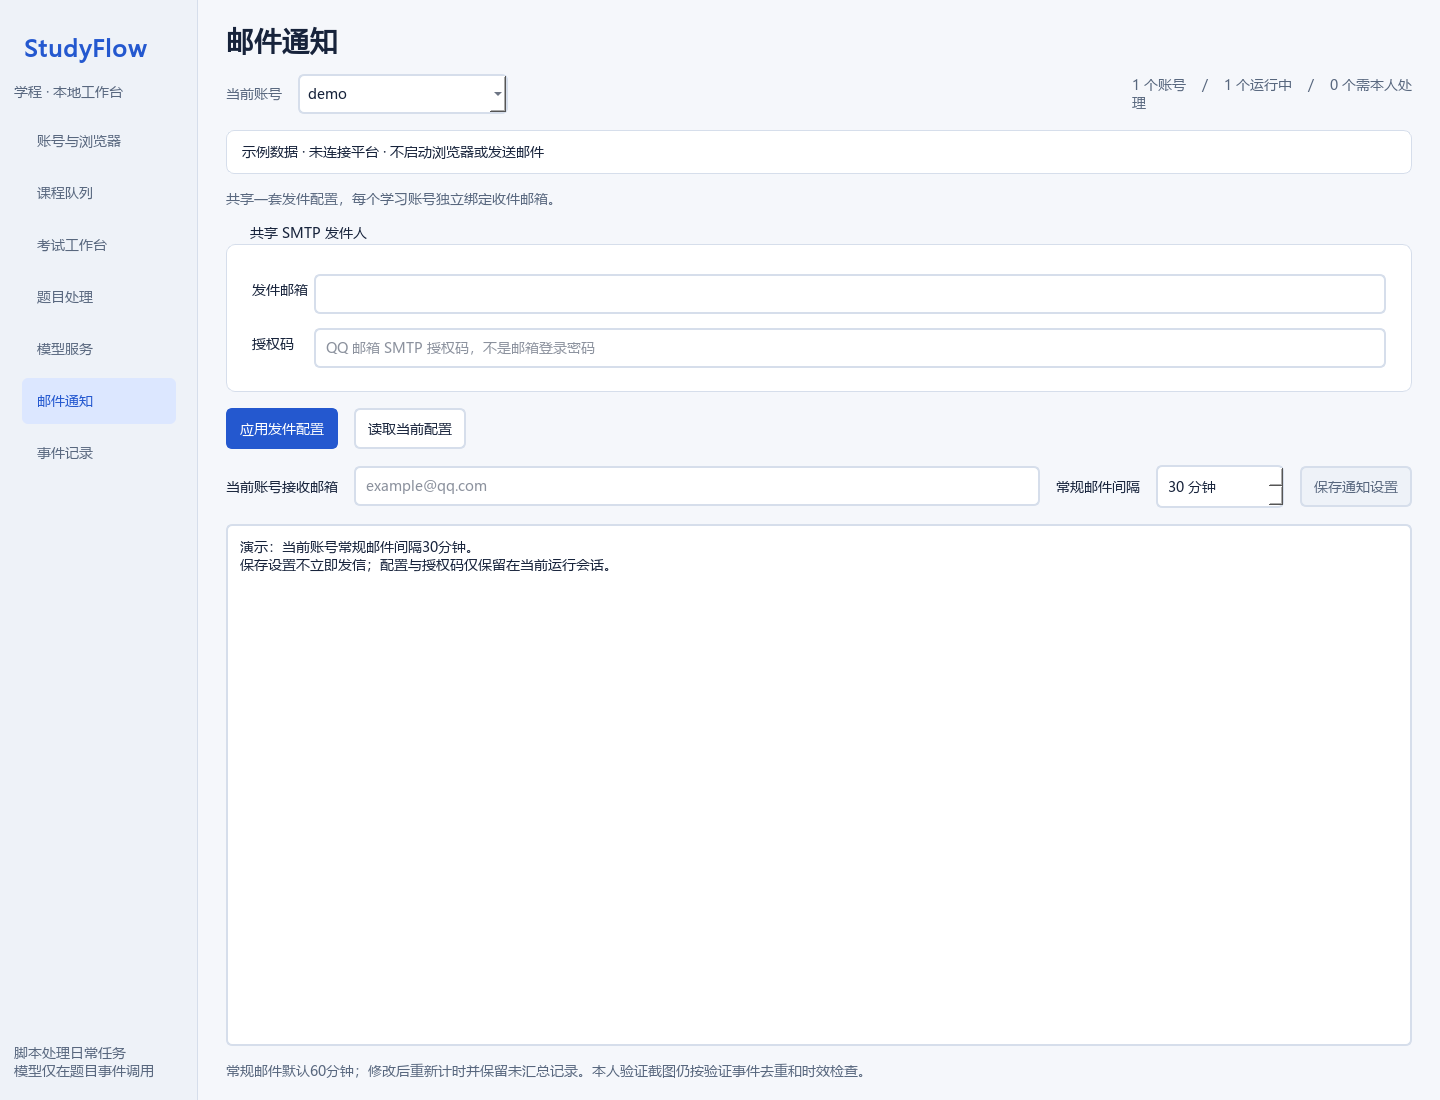
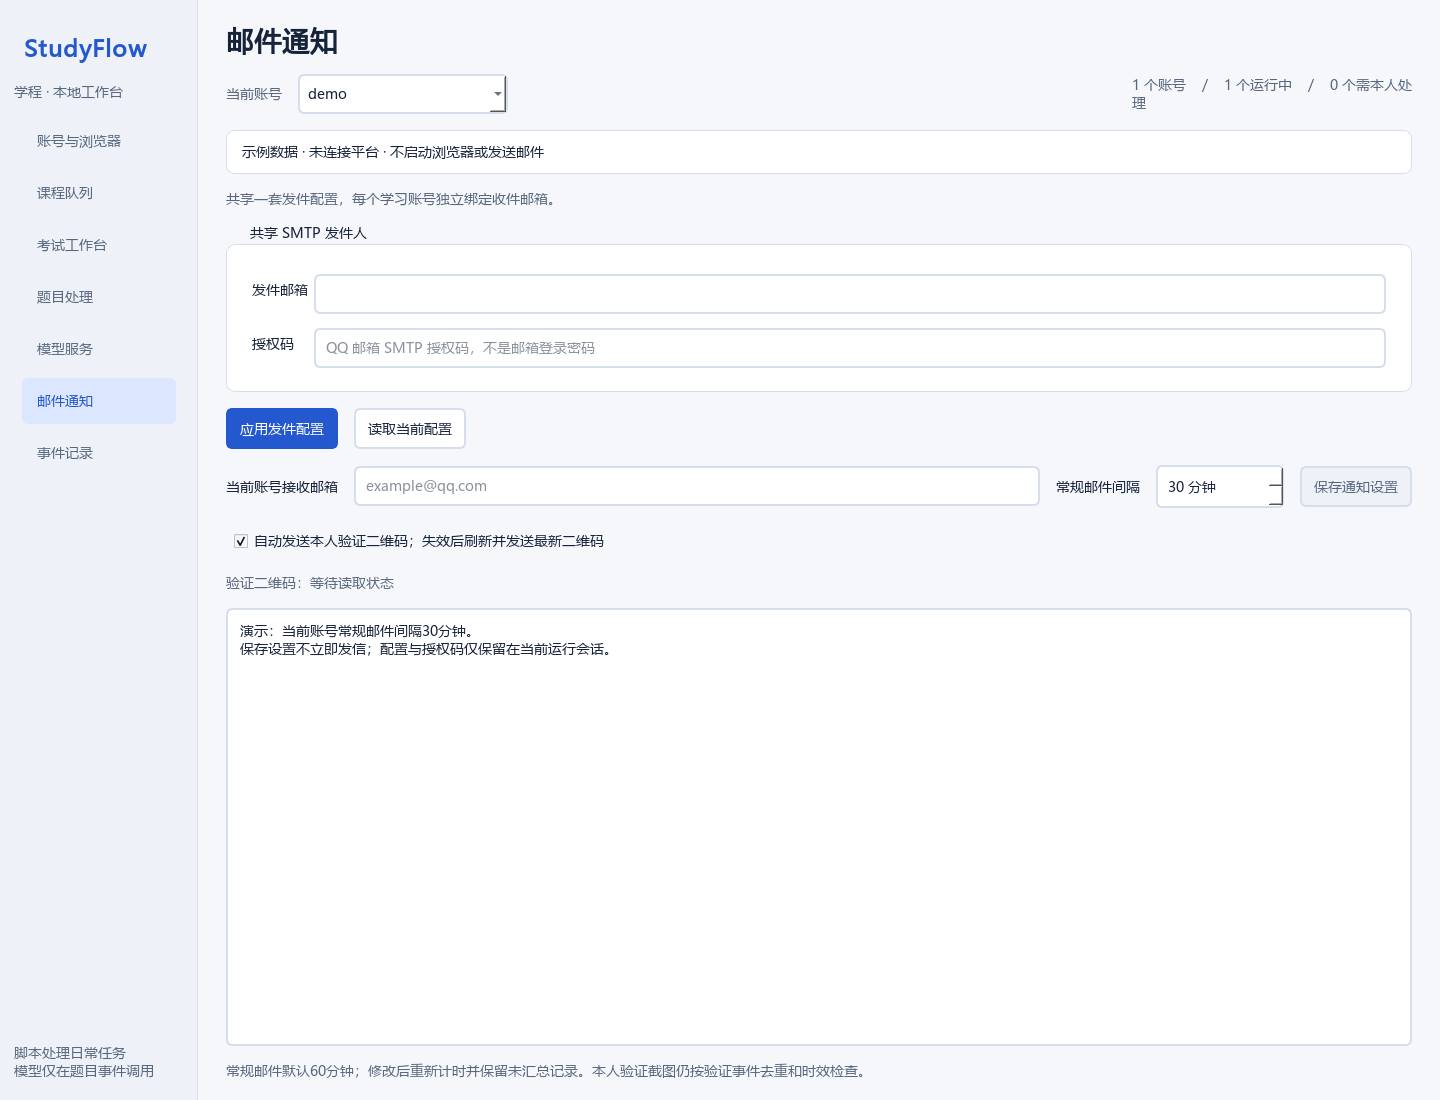
feat: release single-file desktop with QR notification controls
Expose automatic QR refresh/email settings and live delivery status. Add one-file Windows build with embedded backend, resources and licenses. Update tutorial and synthetic screenshots. Validation: 429 backend and 64 desktop tests passed; standalone EXE GUI startup and 134-tool MCP handshake passed without external Python, Node or Qt paths.

Changed region(s): [[0.1562, 0.4636, 0.4375, 0.6182]]

diff --git a/src/chaoxing_learning_mcp/smtp_notifications.py b/src/chaoxing_learning_mcp/smtp_notifications.py
@@ -27,6 +27,7 @@ _playback_jobs = queue.Queue(maxsize=32)
 _playback_worker = None
 _mail_history = globals().get('_mail_history',{})
 _notification_intervals=globals().get('_notification_intervals',{})
+_auto_qr=globals().get('_auto_qr',{})
 _notification_timers=globals().get('_notification_timers',{})
 _EMAIL = re.compile(r'[^\s@<>]+@[^\s@<>]+\.[^\s@<>]+')
 
@@ -64,16 +65,18 @@ def _arm_interval_timer(account_id):
     _notification_timers[account_id]=timer;timer.start()
 
 
-def configure_notification_interval(account_id:str,minutes:int=60):
+def configure_notification_interval(account_id:str,minutes:int=60,auto_refresh_qr:bool=True):
     from .course_tasks import _accounts
     from . import hourly_reports
     if account_id not in _accounts:raise ValueError('Unknown learning account')
     if isinstance(minutes,bool) or not isinstance(minutes,int) or not 1<=minutes<=1440:
         raise ValueError('Notification interval must be 1..1440 minutes')
-    with _lock:_notification_intervals[account_id]=minutes*60
+    with _lock:
+        _notification_intervals[account_id]=minutes*60
+        _auto_qr[account_id]=bool(auto_refresh_qr)
     hourly_reports.reporter.set_interval(account_id,minutes*60);hourly_reports._wake.set()
     _arm_interval_timer(account_id)
-    return {'configured':True,'account_id':account_id,'notification_interval_minutes':minutes,'mail_sent':False}
+    return {'configured':True,'account_id':account_id,'notification_interval_minutes':minutes,'auto_refresh_qr':bool(auto_refresh_qr),'mail_sent':False}
 
 
 def configure_smtp_sender(sender_email: str = '', smtp_auth_code: str = '', enabled: bool = True) -> dict[str, Any]:
@@ -138,7 +141,7 @@ def smtp_notification_status(account_id: str) -> dict[str, Any]:
         return {'account_id':account_id,'enabled':bool(cfg),
                 'sender':cfg['sender'] if cfg else None,'recipient':cfg['recipient'] if cfg else _recipients.get(account_id),
                 'waiting_for_shared_sender':account_id in _recipients and not cfg,
-                'verification_active':e.get('active',False),'notice_status':e.get('status','idle'),
+                'auto_refresh_qr':_auto_qr.get(account_id,True),'verification_active':e.get('active',False),'notice_status':e.get('status','idle'),
                 'sent_count':e.get('sent_count',0),'error_type':e.get('error_type'),
                 'qr_status':e.get('qr_status'),'refresh_pending':e.get('refresh_pending',False),
                 'refresh_count':e.get('refresh_count',0),'playback_health':health,
@@ -354,7 +357,7 @@ def observe_gate(page, frame, account_id, kind):
     No QR URL requests, token decoding, verification submission, or face bypass.
     """
     with _lock:
-        if not _resolved_config(account_id):return
+        if not _resolved_config(account_id) or not _auto_qr.get(account_id,True):return
         # A fresh visible gate after a completed episode has a new QR identity.
         # Never compare it with the previous episode's verified refresh hash.
         previous=_events.get(account_id)

diff --git a/desktop/app.py b/desktop/app.py
@@ -258,6 +258,7 @@ class Window(QMainWindow):
             self.update_actions()
         elif key.startswith('通知记录 '):
             aid=key.split(' ',1)[1]
+            if aid==self.selected():self.qr_status.setText('验证二维码：'+str(data.get('qr_status') or '当前无需验证')+' · 邮件：'+str(data.get('notice_status') or '等待'))
             for mail in data.get('mail_history',[]):
                 identity=(aid,mail.get('id'))
                 if identity not in self.mail_seen and mail.get('status')!='sending':
@@ -390,6 +391,8 @@ class Window(QMainWindow):
                 if state['account_id']==self.selected():
                     self.recipient.setText(state.get('recipient') or '')
                     self.mail_interval.setValue(state.get('notification_interval_minutes',60))
+                    self.auto_qr.setChecked(state.get('auto_refresh_qr',True))
+                    self.qr_status.setText('验证二维码：'+str(state.get('qr_status') or '当前无需验证')+' · 邮件：'+str(state.get('notice_status') or '等待')+' · 收件人：'+str(state.get('recipient') or '未配置'))
             self.mail_info.setPlainText('\n'.join(lines))
         else:
             self.last_errors.pop(key,None)
@@ -704,10 +707,10 @@ class Window(QMainWindow):
         self.task('邮件配置',lambda:self.adapter.call('configure_smtp_sender',{'sender_email':email,'smtp_auth_code':secret}))
     def bind_mail(self):
         a=self.selected();recipient=self.recipient.text().strip()
-        minutes=self.mail_interval.value()
+        minutes=self.mail_interval.value();auto_qr=self.auto_qr.isChecked()
         def save():
             if recipient:self.adapter.route(a,'bind_account_notification_email',recipient_email=recipient)
-            return self.adapter.route(a,'configure_notification_interval',minutes=minutes)
+            return self.adapter.route(a,'configure_notification_interval',minutes=minutes,auto_refresh_qr=auto_qr)
         if a:self.task('通知设置:'+a,save)
     def add_account(self):
         if not self.adapter:return

diff --git a/scripts/build_singlefile.py b/scripts/build_singlefile.py
@@ -1,0 +1,23 @@
+"""Run after build_windows.ps1; create a self-contained PyInstaller executable."""
+from pathlib import Path
+import subprocess
+import sys
+import tomllib
+
+root=Path(__file__).resolve().parents[1]
+version=tomllib.loads((root/'pyproject.toml').read_text(encoding='utf-8'))['project']['version']
+spec=(root/'work/pyinstaller/StudyFlow.spec').read_text(encoding='utf-8')
+extra=[(str(root/'src/chaoxing_learning_mcp/__main__.py'),'chaoxing_learning_mcp'),
+       (str(root/'dist/StudyFlow/licenses'),'licenses'),(str(root/'docs'),'docs'),
+       (str(root/'LICENSE'),'.'),(str(root/'THIRD_PARTY_NOTICES.md'),'.')]
+spec=spec.replace('binaries = []','datas += '+repr(extra)+'\nbinaries = []')
+spec=spec[:spec.index('pyz = PYZ')]+'''
+a.binaries=[row for row in a.binaries if Path(row[0]).name.lower() not in ('icuuc.dll','icudt78.dll')]
+pyz=PYZ(a.pure)
+exe=EXE(pyz,a.scripts,a.binaries,a.datas,[],name=OUTPUT_NAME,debug=False,
+        strip=False,upx=True,console=True)
+'''.replace('OUTPUT_NAME',repr('StudyFlow-'+version+'-Windows-x64'))
+spec='from pathlib import Path\n'+spec
+target=root/'work/pyinstaller/StudyFlow-single.spec';target.write_text(spec,encoding='utf-8')
+subprocess.run([sys.executable,'-m','PyInstaller','--noconfirm','--distpath',str(root/'dist-single'),
+               '--workpath',str(root/'work/onefile'),str(target)],cwd=root,check=True)

diff --git a/desktop/ui.py b/desktop/ui.py
@@ -125,6 +125,8 @@ def build_ui(w):
     recipients.addWidget(label('常规邮件间隔'))
     w.mail_interval=QSpinBox();w.mail_interval.setRange(1,1440);w.mail_interval.setValue(60);w.mail_interval.setSuffix(' 分钟');recipients.addWidget(w.mail_interval)
     b=button('保存通知设置',w.bind_mail);recipients.addWidget(b);w.account_actions.append(b);sl.addLayout(recipients)
+    w.auto_qr=QCheckBox('自动发送本人验证二维码；失效后刷新并发送最新二维码');w.auto_qr.setChecked(True);sl.addWidget(w.auto_qr)
+    w.qr_status=label('验证二维码：等待读取状态','muted');sl.addWidget(w.qr_status)
     w.mail_info=QPlainTextEdit();w.mail_info.setReadOnly(True);sl.addWidget(w.mail_info,1)
     sl.addWidget(label('常规邮件默认60分钟；修改后重新计时并保留未汇总记录。本人验证截图仍按验证事件去重和时效检查。','muted'))
     ll=page('事件记录','只看课程完成、题目答案与平台正确率、实际邮件。运行状态和实时视频进度请看“账号与浏览器”。')

diff --git a/tests/test_notification_interval.py b/tests/test_notification_interval.py
@@ -29,3 +29,12 @@ def test_custom_rate_limit_keeps_existing_delivery_reservation(tmp_path):
     assert mail_rate_limit.reserve('fixture','fixture@example.com',directory=tmp_path,now=1000)==0
     assert mail_rate_limit.reserve('fixture','fixture@example.com',directory=tmp_path,now=1299,interval=300)==1
     assert mail_rate_limit.reserve('fixture','fixture@example.com',directory=tmp_path,now=1300,interval=300)==0
+
+
+def test_qr_autorefresh_setting_is_explicit_and_defaults_on(monkeypatch):
+    monkeypatch.setattr(course_tasks,'_accounts',{'fixture':object()})
+    monkeypatch.setattr(n,'_auto_qr',{})
+    monkeypatch.setattr(n,'_arm_interval_timer',Mock())
+    assert n.configure_notification_interval('fixture',60,auto_refresh_qr=False)['auto_refresh_qr'] is False
+    assert not n._auto_qr['fixture']
+    assert n.configure_notification_interval('fixture',60)['auto_refresh_qr'] is True

diff --git a/desktop/test_ui.py b/desktop/test_ui.py
@@ -45,7 +45,7 @@ class UITests(unittest.TestCase):
         w=Window();w.timer.stop();w.adapter=Mock();jobs=[];w.task=lambda k,fn:jobs.append((k,fn))
         w.done('status',{'accounts':[{'account_id':'fixture','status':'ready','current':{}}]})
         w.mail_interval.setValue(15);w.bind_mail();jobs[-1][1]()
-        w.adapter.route.assert_called_with('fixture','configure_notification_interval',minutes=15)
+        w.adapter.route.assert_called_with('fixture','configure_notification_interval',minutes=15,auto_refresh_qr=True)
         w.close()
 
     def test_multiple_video_card_displays_current_task_and_confirmed_count(self):

diff --git a/src/chaoxing_learning_mcp/__init__.py b/src/chaoxing_learning_mcp/__init__.py
@@ -1,4 +1,4 @@
 """StudyFlow: Chaoxing course tasks and exams."""
 
-__version__ = "1.9.4"
+__version__ = "1.9.5"
 

diff --git a/README.md b/README.md
@@ -4,11 +4,11 @@
 
 源码与桌面程序按 [GPL-3.0-only](LICENSE) 发布，第三方组件保留各自许可；使用声明不改变开源许可证的权利与义务。详见 [第三方声明](THIRD_PARTY_NOTICES.md)。
 
-## v1.9.4 桌面与便携包
+## v1.9.5 桌面与便携包
 
-[下载 Windows 便携包](https://github.com/2924547961/studyflow/releases/latest) · [使用教程与截图](docs/使用教程.md) · [故障处理与回归](docs/故障处理与回归.md) · [版本说明](docs/release-v1.9.4.md)
+[下载 Windows 便携包](https://github.com/2924547961/studyflow/releases/latest) · [使用教程与截图](docs/使用教程.md) · [故障处理与回归](docs/故障处理与回归.md) · [版本说明](docs/release-v1.9.5.md)
 
-解压便携包，双击 `StudyFlow.exe`。无需另装 Python；使用本机 Microsoft Edge。课程自动读取，已有账号使用启动/关闭状态按钮。源码也可直接运行 `python desktop/app.py`，首次启动自动连接本地后端。
+下载v1.9.5单文件EXE后直接运行；旧版便携ZIP需完整解压，再双击 `StudyFlow.exe`。无需另装 Python；使用本机 Microsoft Edge。课程自动读取，已有账号使用启动/关闭状态按钮。源码也可直接运行 `python desktop/app.py`，首次启动自动连接本地后端。
 
 ## 当前直接执行路线（1.9.1，2026-10-21）
 

diff --git a/docs/使用教程.md b/docs/使用教程.md
@@ -4,6 +4,8 @@
 
 ## 1. 环境与安装
 
+v1.9.5起提供单文件EXE：下载后直接运行，无需单独安装Python或Node。仍使用本机Microsoft Edge。旧版ZIP请完整解压；源码构建单文件先运行scripts/build_windows.ps1，再运行python scripts/build_singlefile.py。
+
 Windows便携包：从[Releases](https://github.com/2924547961/studyflow/releases/latest)下载并完整解压，双击 `StudyFlow.exe`。无需另装Python；使用本机Microsoft Edge。不要只复制exe文件而遗漏 `_internal` 目录。
 
 源码安装建议Windows 10/11、Python 3.11及以上、Microsoft Edge，桌面使用PyQt6；源码字体解码需要Node.js LTS。便携包已使用所带的Node运行时。
@@ -113,3 +115,5 @@ python -m pytest
 ![模型服务](images/model-service.png)
 
 ![邮件通知间隔](images/mail-notifications.png)
+
+二维码通知：在邮件通知页勾选“自动发送本人验证二维码；失效后刷新并发送最新二维码”，点击保存通知设置。默认开启；二维码状态、发送结果和收件邮箱在此页显示。平台明确失效后刷新并截取新图发送，同图去重，未知发送不盲目重试；本人认证仍由本人完成。

diff --git a/docs/release-v1.9.5.md b/docs/release-v1.9.5.md
@@ -1,0 +1,11 @@
+# v1.9.5
+
+仅供学习用途，严禁用于刷课。
+
+- 邮件通知页新增按账号保存的二维码自动发送/失效刷新开关，默认开启。
+- 显示二维码状态、SMTP发送结果及收件邮箱；失效刷新、新图身份检查、同图去重及未知发送保护沿用已有实现。
+- 普通汇总间隔与验证二维码通知分开管理；本人验证由本人完成。
+
+附源码、截图、使用教程、GPL与第三方许可证及SHA256校验文件。
+
+提供单文件Windows EXE，无需旁置_internal目录。首次启动会解包运行资源到系统临时目录。后端429项、桌面64项回归通过；单文件已在独立目录、移除外部Python/Node/Qt路径后实测GUI启动及134个MCP工具通信通过。
